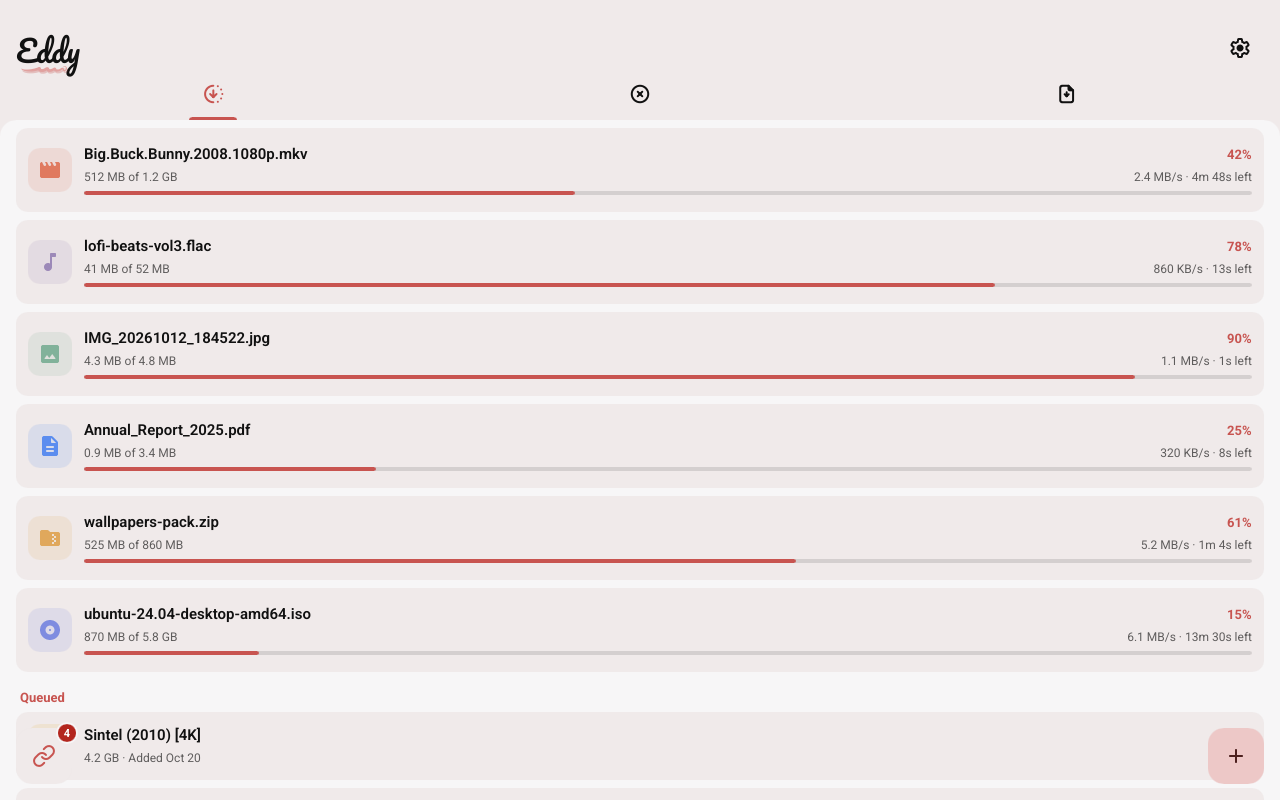
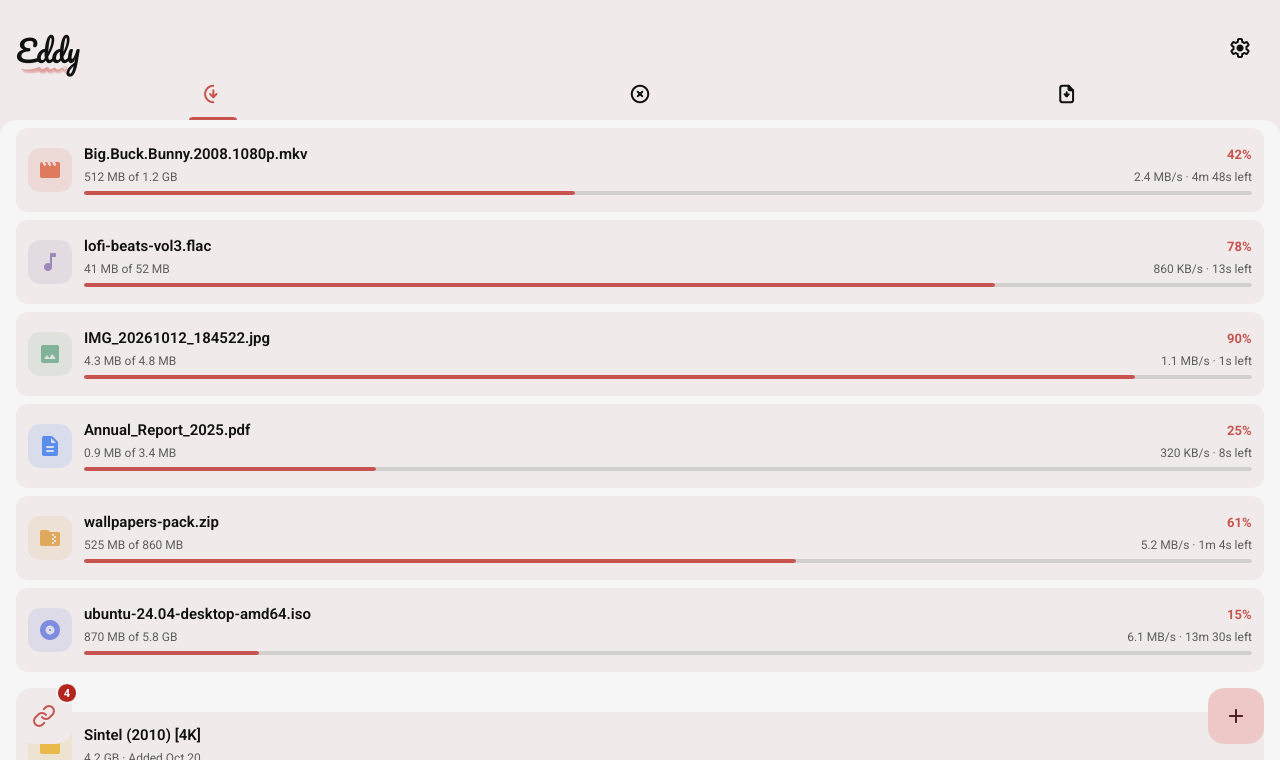
README: screenshots again, light and dark (#35)
The README's screenshots rendered again from the current UI (they predated #31), each in the light and the dark theme: phone Downloads and Settings in one row, desktop Downloads and Settings two per row. SKILL.md lists the defaults changed for the shots (the desktop flags, the dark theme, the Downloading tab's animation off), put back after.

diff --git a/README.md b/README.md
@@ -7,14 +7,18 @@ interface.
 Paste or share a link: Eddy works out what it is, shows a preview, and downloads it.
 
 <p>
-  <img src="docs/screenshots/mobile-downloads.png" alt="Downloads on a phone" width="240">
-  <img src="docs/screenshots/mobile-settings.png" alt="Settings on a phone" width="240">
+  <img src="docs/screenshots/mobile-downloads.png" alt="Downloads on a phone" width="200">
+  <img src="docs/screenshots/mobile-downloads-dark.png" alt="Downloads on a phone, dark theme" width="200">
+  <img src="docs/screenshots/mobile-settings.png" alt="Settings on a phone" width="200">
+  <img src="docs/screenshots/mobile-settings-dark.png" alt="Settings on a phone, dark theme" width="200">
 </p>
 <p>
-  <img src="docs/screenshots/desktop-downloads.png" alt="Downloads on desktop" width="720">
+  <img src="docs/screenshots/desktop-downloads.png" alt="Downloads on desktop" width="400">
+  <img src="docs/screenshots/desktop-downloads-dark.png" alt="Downloads on desktop, dark theme" width="400">
 </p>
 <p>
-  <img src="docs/screenshots/desktop-settings.png" alt="Settings on desktop" width="720">
+  <img src="docs/screenshots/desktop-settings.png" alt="Settings on desktop" width="400">
+  <img src="docs/screenshots/desktop-settings-dark.png" alt="Settings on desktop, dark theme" width="400">
 </p>
 
 ## What it downloads

diff --git a/SKILL.md b/SKILL.md
@@ -40,9 +40,12 @@ browser (`BrowserActivity`). Kotlin talks to Rust through `EddyNative` (JNI, in
   A page or component on its own: `--component Name`, and `--screenshot out.png --size WxH` to
   look at it. A "BackendSelector" message is normal.
   The README's screenshots (`docs/screenshots/`) are such renders of the sample data: phone
-  ones in material at 412×915, desktop ones in fluent at 1280 wide with `SettingsLayout.desktop`
+  ones in material at 412×915, desktop ones in fluent at 1280×760 with `SettingsLayout.desktop`
   and `AppSettings.top_navigation_bar` defaulted to true for the shot (what the desktop app
-  sets at start), then put back.
+  sets at start), each in the light theme and the dark one (`-dark.png`: `ThemeSettings.mode`
+  defaulted to `Dark`). `AppSettings.animate_downloading_tab` is defaulted to false, so the
+  Downloading tab's icon isn't caught mid-animation. All of it is put back after: none of it
+  goes into the app.
 - **Kotlin:** only Gradle builds it (`platforms/android`, `./gradlew assembleRelease`).
 
 ## Conventions
